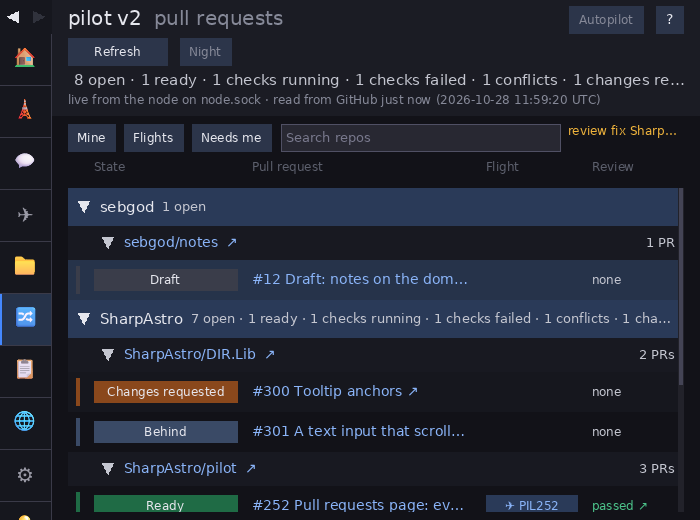
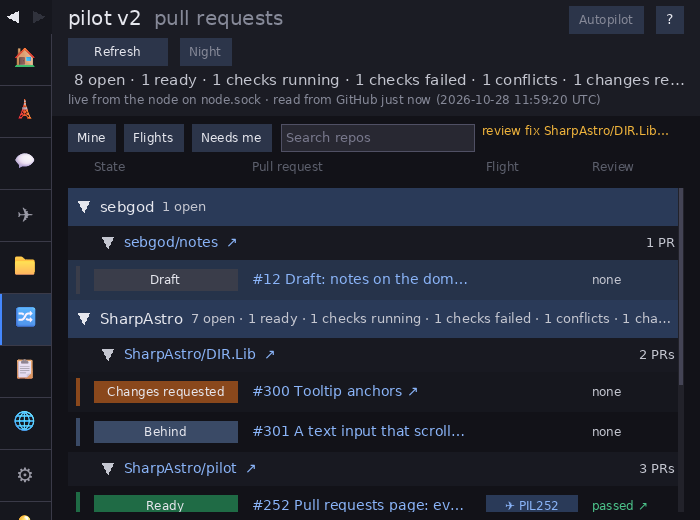
PIL695: the refusal always has room on the toolbar: the search box gives way and the slot has a floor, so it is cut with an ellipsis at any width
A star slot is clamped to zero when pills plus the fixed search take the row, and a text in a zero slot is not cut at all, so the refusal ran off the page. The search is now a star between a floor and its usual width, the refusal slot has a floor, and an empty count slot keeps the row's parts the same with and without a refusal. The test now also visits 500 and 584 px and checks the fitted text, not only the bounds; captures at 500, 700 and 1400 px, before and after.

Claude-Session: https://claude.ai/code/session_01MEtokW2chcdtx4zaJ7hEXP

Changed region(s): [[0.66, 0.2154, 0.96, 0.3077]]

diff --git a/src/Pilot.Gui.Tests/PullRequestsPageTests.cs b/src/Pilot.Gui.Tests/PullRequestsPageTests.cs
@@ -1493,35 +1493,57 @@ public sealed class PullRequestsPageTests
             arranged.Single(a => a.Node is Layout.Node.Leaf { Content: Layout.Content.TextInput }).Bounds, arranged);
     }
 
+    // 500 and 584 are the widths where the slot on the pills' row is zero (the engine clamps it), 700 a small one, 1400 a wide one.
     [Theory]
+    [InlineData(500f)]
+    [InlineData(584f)]
     [InlineData(600f)]
     [InlineData(700f)]
     [InlineData(1400f)]
-    public async Task ALongRefusalStaysRightOfTheSearchBoxInsideThePageWholeOnHoverAndMovesNothing(float width)
+    public async Task ALongRefusalStaysClearOfThePillsAndTheSearchBoxInsideThePageCutOrWholeAndMovesNothing(float width)
     {
         var without = await ToolbarAt(width, refused: false);
         var with = await ToolbarAt(width, refused: true);
 
         (with.Mine, with.Flights, with.NeedsMe, with.Search).ShouldBe((without.Mine, without.Flights, without.NeedsMe, without.Search));
         var text = with.Arranged.Single(a => a.Node is Layout.Node.Leaf { Content: Layout.Content.Text t } && t.Value == HoldingRefusal);
-        text.Bounds.X.ShouldBeGreaterThanOrEqualTo(with.Search.X + with.Search.Width);
-        (text.Bounds.X + text.Bounds.Width).ShouldBeLessThanOrEqualTo(width + 0.01f);
+        var content = (Layout.Content.Text)((Layout.Node.Leaf)text.Node).Content;
+        // Either right of the search box on the pills' row, or on a line of its own under the pills.
+        var below = text.Bounds.Y >= with.Search.Y + with.Search.Height - 0.01f;
+        if (!below)
+        {
+            text.Bounds.X.ShouldBeGreaterThanOrEqualTo(with.Search.X + with.Search.Width);
+        }
         text.Bounds.X.ShouldBeGreaterThanOrEqualTo(0f);
+        text.Bounds.Width.ShouldBeGreaterThan(0f);
+        (text.Bounds.X + text.Bounds.Width).ShouldBeLessThanOrEqualTo(width + 0.01f);
         text.Node.Tooltip.ShouldBe(HoldingRefusal);
-        // Drawn from its left edge: a far-aligned run wider than its slot grows leftwards, over the pills, whatever its bounds say.
-        ((Layout.Content.Text)((Layout.Node.Leaf)text.Node).Content).HAlign.ShouldBe(TextAlign.Near);
+        // What is drawn, not only the slot: the run is cut to the slot (ending in an ellipsis) when it does not fit, so it ends inside the page.
+        using var renderer = new RgbaImageRenderer((uint)width, 900);
+        var (full, _) = renderer.MeasureText(HoldingRefusal, SessionsCapture.FontPath, content.FontSize);
+        var (shown, size) = TextFit.ForWidth(renderer, HoldingRefusal, SessionsCapture.FontPath, null, content.FontSize, text.Bounds.Width, content.Trim);
+        var (drawn, _) = renderer.MeasureText(shown, SessionsCapture.FontPath, size);
+        drawn.ShouldBeLessThanOrEqualTo(text.Bounds.Width + 0.5f);
+        if (full > text.Bounds.Width)
+        {
+            shown.ShouldNotBe(HoldingRefusal);
+            shown.ShouldEndWith("…");
+        }
+        content.HAlign.ShouldBe(TextAlign.Near);
         TextOverlap.Faults(with.Arranged).Select(f => f.Text).ShouldBeEmpty();
     }
 
     [Fact]
-    public async Task TheRefusalCaptureIsWrittenAtANarrowAndAWideWidth()
+    public async Task TheRefusalCapturesAreWrittenAtNarrowAndWideWidthsAndOnlyTheirFormatIsChecked()
     {
+        // PILOT_PR_CAPTURES names the folder to write to (give docs/captures, as AdmissionViewsTests does with PILOT_ADMISSION_CAPTURES; else a
+        // temp folder), PILOT_PR_CAPTURE_SUFFIX such as -before goes on the end of the file names.
         var given = Environment.GetEnvironmentVariable("PILOT_PR_CAPTURES");
         var folder = given is { Length: > 0 } ? Directory.CreateDirectory(given) : Directory.CreateTempSubdirectory("pilot-pr-");
         var suffix = Environment.GetEnvironmentVariable("PILOT_PR_CAPTURE_SUFFIX") ?? "";
         try
         {
-            foreach (var width in new[] { 700, 1400 })
+            foreach (var width in new[] { 500, 700, 1400 })
             {
                 using var renderer = new RgbaImageRenderer((uint)width, 520);
                 var (chrome, page) = Chrome(renderer);

diff --git a/src/Pilot.Ui/PullRequestsView.Drawing.cs b/src/Pilot.Ui/PullRequestsView.Drawing.cs
@@ -94,21 +94,30 @@ internal sealed partial class PullRequestsView<TSurface>
             items.Add(CardsView<TSurface>.HeaderPill(FilterName(filter), FilterAction(filter), () => Filter = isLit ? null : chosen, isLit ? lit : plain, NightOrNull?.Bright)
                 .WithTooltip(FilterTip(filter, isLit)));
         }
-        items.Add(Layout.Builder.TextInput(Search, TextSize, Palette.Input).WFixed(SearchWidth).HFixed(AboutCard.HeaderButton));
+        items.Add(Layout.Builder.TextInput(Search, TextSize, Palette.Input).WStar(1f, SearchFloor, SearchWidth).HFixed(AboutCard.HeaderButton));
         // What the node refused of the last button pressed on a row, in its words, where the count of the list is: a place that is
         // always there, so a refusal moves nothing. Drawn from the slot's left edge, never far-aligned: a run wider than its slot would grow
         // leftwards over the pills. Cut to the room it has with an ellipsis, whole on hover.
+        // The search box gives way before the refusal does: a star between a floor and its usual width, beside a slot with a floor of its own.
+        // The engine clamps a star slot to zero when the fixed parts take the row, and a text in a zero slot is not cut at all, so the
+        // refusal always has RefusalFloor to be cut to (with an ellipsis), whatever the width, and the pills never move for it.
         if (Refusal() is { } refused)
         {
-            items.Add(Layout.Builder.Text(refused, 12f, P.Held).WithTooltip(refused).WStar());
+            // An empty count slot stays, so the row has the same parts and gaps with a refusal as without: the search box, which gives way
+            // on a narrow page, is then the same width either way.
+            items.Add(Layout.Builder.Text(refused, 12f, P.Held).WithTooltip(refused).WStar(1f, RefusalFloor));
+            items.Add(Layout.Builder.Text("", 12f, BodyText, TextAlign.Far).WAuto());
         }
         else
         {
-            items.Add(Layout.Builder.Spacer().WStar());
+            items.Add(Layout.Builder.Spacer().WStar(1f, RefusalFloor));
             items.Add(Layout.Builder.Text(shown == total ? "" : $"showing {shown} of {total}", 12f, BodyText, TextAlign.Far).WAuto());
         }
         return Layout.Builder.HStack([.. items]).WithGap(8f).RowH(ToolbarHeight);
     }
+
+    private const float RefusalFloor = 100f;
+    private const float SearchFloor = 60f;
 
     private Layout.Node Main(PullRequestsScreen screen, IReadOnlyList<PullRequestOrgGroup> orgs, float width)
     {
